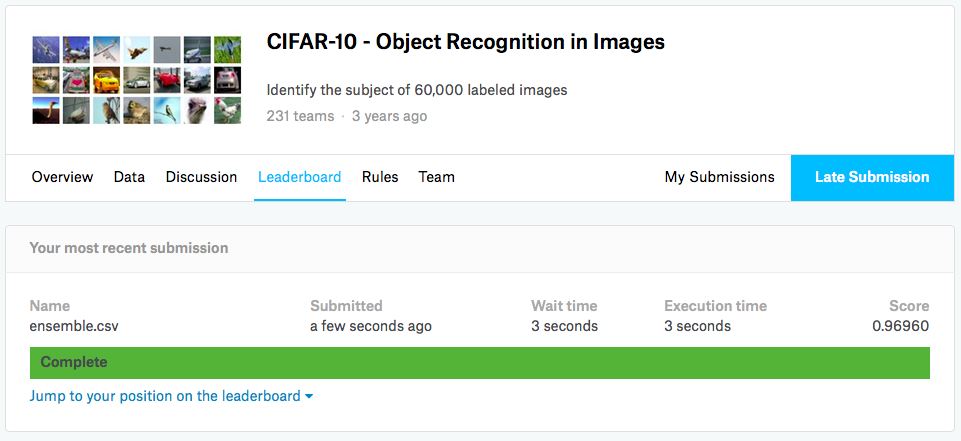
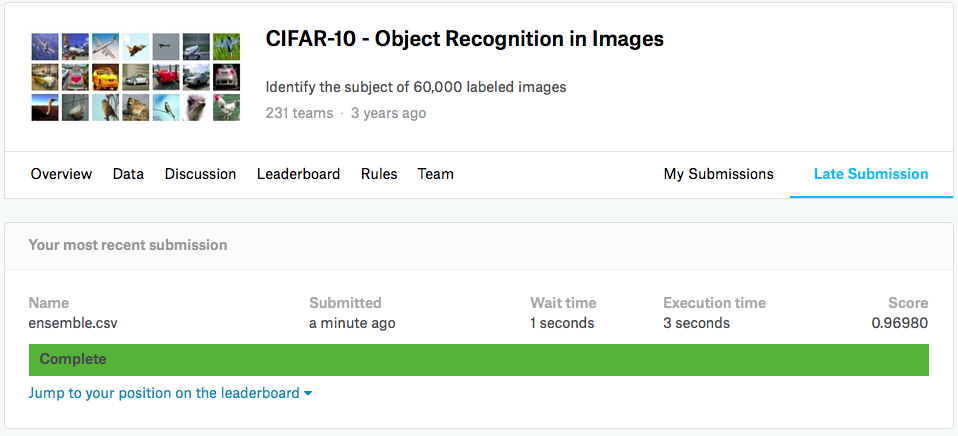
readme

diff --git a/2. cifar10_gluon/README.md b/2. cifar10_gluon/README.md
@@ -49,11 +49,13 @@
 
         ![](./1.png)
 
-    2. ensemble：96.96
+    2. ensemble：96.98
 
         ![](./2.png)
 
-        注：ensemble的代码单独给出，ensemble的其他模型均来自gluon社区小伙伴yinglang以及sherlock的分享，由于是刷分用途的方法，个人对这个兴趣不大，所以也不详细讨论深究了，详细代码以及讨论可见[动手玩Kaggle比赛——使用Gluon对原始图像文件分类(CIFAR-10) 讨论区](https://discuss.gluon.ai/t/topic/1545/397)
+        注：ensemble的代码单独给出，ensemble的其他模型数据均来自gluon社区小伙伴yinglang以及sherlock的分享，由衷感谢！由于是刷分用途的方法，个人对此兴趣不大，所以不详细讨论深究了，详细代码以及讨论可见[动手玩Kaggle比赛——使用Gluon对原始图像文件分类(CIFAR-10) 讨论区](https://discuss.gluon.ai/t/topic/1545/397)
+
+        ensemble部分是在mac上跑的，代码参考至yinglang的[github](https://github.com/yinglang/CIFAR10_mxnet/blob/master/CIFAR10_train.md)，未经优化，细节部分还需根据具体情况调整
 
 - load_data部分以及生成用于比赛提交结果的文件均参考沐神代码，具体可见[实战Kaggle比赛——使用Gluon对原始图像文件分类（CIFAR-10）](http://zh.gluon.ai/chapter_computer-vision/kaggle-gluon-cifar10.html)
 

diff --git a/README.md b/README.md
@@ -44,7 +44,7 @@
 
     - kaggle(cifar10)：用wrn16\*8模型参加kaggle cifar10比赛
 
-      单模型精度95.96，ensemble后精度96.96
+      单模型精度95.96，ensemble后精度96.98
 
     - kaggle(Imagenet 120dogs)：resnet18
 
@@ -95,7 +95,7 @@ keras的个人学习用notebook正在制作中，参考至[BIGBALLON/cifar-10-cn
 7. [Conditional Generative Adversarial Nets][14]
 
 [1]: https://github.com/BIGBALLON/cifar-10-cnn
-[2]: https://www.bilibili.com/video/av14327359/?from=search&amp;amp;amp;amp;amp;amp;amp;amp;amp;amp;amp;amp;amp;amp;amp;amp;amp;amp;amp;amp;amp;amp;seid=4696511599201035761
+[2]: https://www.bilibili.com/video/av14327359/?from=search&amp;amp;amp;amp;amp;amp;amp;amp;amp;amp;amp;amp;amp;amp;amp;amp;amp;amp;amp;amp;amp;amp;amp;seid=4696511599201035761
 [3]: https://arxiv.org/abs/1512.03385
 [4]: https://arxiv.org/abs/1603.05027
 [5]: https://arxiv.org/abs/1605.07146
